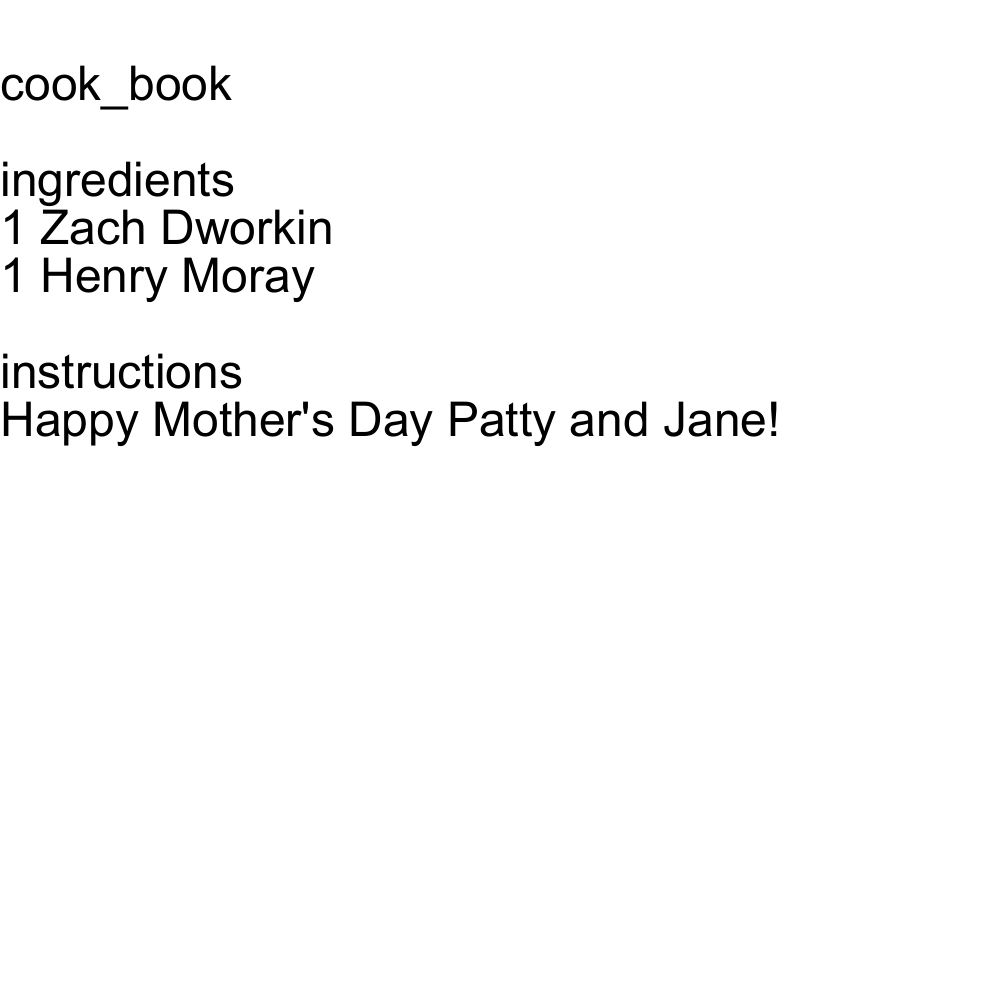
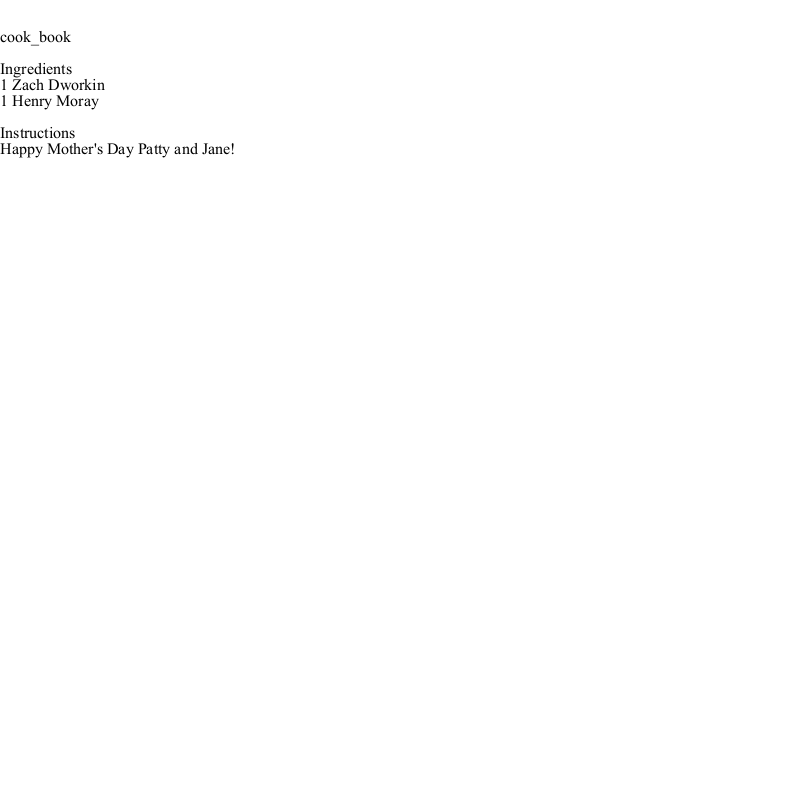
Add one new recipe Fix initialization bug Reformat png writer

Changed region(s): [[0.0, 0.0312, 0.3438, 0.3125], [0.0, 0.3438, 0.7812, 0.4375]]

diff --git a/src/ImageComponent.java b/src/ImageComponent.java
@@ -4,6 +4,7 @@ import java.awt.*;
 import java.awt.image.BufferedImage;
 import java.io.*;
 import java.nio.file.Path;
+import java.util.ArrayList;
 
 class ImageComponent extends JComponent {
     private Image image;
@@ -17,7 +18,7 @@ class ImageComponent extends JComponent {
     public Image getImage() { return this.image;}
 
     public void setImage(Image image) {
-        this.image = image;
+        this.image = scale(image, 800, 800);
     }
 
     public Path getResourcesDirectory() {
@@ -28,13 +29,54 @@ class ImageComponent extends JComponent {
         return ImageIO.read(resourcesDirectory.resolve(image).toFile());
     }
 
+    private ArrayList<String> lineParser(String line) {
+        ArrayList<String> lines = new ArrayList<>();
+        if (line.length() > 80) {
+            int line_count = 1;
+            int step_num = 1;
+            String[] ln = line.split(" ");
+            StringBuilder newLine = new StringBuilder();
+            String previous_word = "";
+
+            for (String word : ln) {
+                if (previous_word.equals("Step")) step_num = Integer.parseInt(word.substring(0, word.length() - 1));
+                if (word.equals("Step")) line_count = 1;
+
+                if (newLine.length() + word.length() < 80) {
+                    newLine.append(word).append(" ");
+                } else {
+                    lines.add(newLine.append("\n").toString());
+                    newLine = new StringBuilder();
+                    if (++line_count > 1) {
+                        newLine.append("            ");
+                        if (step_num >= 10) {
+                            newLine.append("  ");
+                        }
+
+                        newLine.append(word).append(" ");
+                    }
+                }
+
+                previous_word = word;
+            }
+
+            lines.add(newLine.append("\n").toString());
+        } else {
+            lines.add(line + "\n");
+        }
+
+        return lines;
+    }
+
     public void createImageFromText(Path imagePath) throws IOException {
-        int width = 1000;
-        int height = 1000;
+        int width = 800;
+        int height = 800;
+        int fontSize = 16;
+        int nextLinePosition = fontSize * 2 + 10;
 
         BufferedImage img = new BufferedImage(1, 1, BufferedImage.TYPE_INT_ARGB);
         Graphics2D g2d = img.createGraphics();
-        Font font = new Font("Arial", Font.PLAIN, 48);
+        Font font = new Font("Times New Roman", Font.PLAIN, fontSize);
         g2d.setFont(font);
         g2d.dispose();
 
@@ -52,21 +94,20 @@ class ImageComponent extends JComponent {
         g2d.setColor(Color.BLACK);
         File file = imagePath.toFile();
 
-        BufferedReader br;
-        int nextLinePosition=100;
-        int fontSize = 48;
-        br = new BufferedReader(new FileReader(file));
-
+        BufferedReader br = new BufferedReader(new FileReader(file));
         String line;
         while ((line = br.readLine()) != null) {
-            g2d.drawString(line, 0, nextLinePosition);
-            nextLinePosition = nextLinePosition + fontSize;
+            ArrayList<String> lines = lineParser(line);
+            for (String ln : lines) {
+                g2d.drawString(ln, 0, nextLinePosition);
+                nextLinePosition = nextLinePosition + fontSize;
+            }
         }
-        br.close();
 
+        br.close();
         g2d.dispose();
         String fileName = imagePath.toFile().getName();
-        String newFileName = fileName.substring(0, fileName.length() - 7) + ".png";
+        String newFileName = fileName.substring(0, fileName.length() - "recipe".length()) + "png";
         ImageIO.write(img, "png", resourcesDirectory.resolve("recipeCardImages").resolve(newFileName).toFile());
     }
 
@@ -74,5 +115,25 @@ class ImageComponent extends JComponent {
         if (image == null) return;
 
         g.drawImage(image, 0, 0, null);
+    }
+
+    public static Image scale(Image image, int width, int height){
+        double displayAngle = Math.atan2(height, width);
+        if (displayAngle < 0) {
+            displayAngle += (2 * Math.PI);
+        }
+        double imageAngle = Math.atan2(image.getHeight(null), image.getWidth(null));
+        if (imageAngle < 0) {
+            imageAngle += (2 * Math.PI);
+        }
+        Image scaleImage;
+
+        if (displayAngle >= imageAngle) {
+            //Giving -1 keeps the Image's original aspect ratio.
+            scaleImage = image.getScaledInstance(width, -1, Image.SCALE_DEFAULT);
+        } else {
+            scaleImage = image.getScaledInstance(-1, height, Image.SCALE_DEFAULT);
+        }
+        return scaleImage;
     }
 }

diff --git a/src/GUI.java b/src/GUI.java
@@ -171,15 +171,23 @@ public class GUI extends JFrame {
             }
 
             for(Recipe recipe : recipes) {
-                String name = recipe.getName() + ".png";
+                String png = recipe.getName() + ".png";
+                String rcp = recipe.getName() + ".recipe";
                 try {
-                    recipe.setImage(ImageIO.read(imageComponent.getResourcesDirectory().resolve(name).toFile()));
+                    recipe.setImage(ImageIO.read(imageComponent.getResourcesDirectory().resolve(png).toFile()));
                 } catch (IOException ioe) {
-                    JOptionPane.showMessageDialog(null, "Recipe Image " + name + " Not Found.");
+                    JOptionPane.showMessageDialog(null, "Recipe Image " + png + " Not Found.");
                 }
 
+                if (!imageComponent.getResourcesDirectory().resolve("recipeCardImages").resolve(png).getFileName().toFile().isFile()) {
+                    try {
+                        imageComponent.createImageFromText(imageComponent.getResourcesDirectory().resolve("recipes").resolve(rcp));
+                    } catch (IOException ioe) {
+                        JOptionPane.showMessageDialog(null, "Could not generate recipe instructions image for " + rcp + ".");
+                    }
+                }
                 try {
-                    recipe.setTextImage(ImageIO.read(imageComponent.getResourcesDirectory().resolve("recipeCardImages").resolve(name + ".png").toFile()));
+                    recipe.setTextImage(ImageIO.read(imageComponent.getResourcesDirectory().resolve("recipeCardImages").resolve(png).toFile()));
                 } catch (IOException ioe) {
                     JOptionPane.showMessageDialog(null, "Recipe Image Card Not Found.");
                 }

diff --git a/src/RecipePane.java b/src/RecipePane.java
@@ -218,7 +218,7 @@ public class RecipePane extends JPanel {
                 return;
             }
 
-            image.setIcon(new ImageIcon(recipe.getImage()));
+            image.setIcon(new ImageIcon(ImageComponent.scale(recipe.getImage(), 400, 400)));
             image.setVisible(true);
         }
     }
@@ -273,7 +273,7 @@ public class RecipePane extends JPanel {
     private class InputIngredient extends AbstractAction {
         final Component parent;
         private final Object[] measureTypes = new Object[]{"Pound(s)", "Ounce(s)", "Teaspoon(s)", "Tablespoon(s)",
-                "Breast(s)", "Fillet(s)", "Chop(s)", "Bag(s)", "Cup(s)"};
+                "Breast(s)", "Fillet(s)", "Chop(s)", "Bag(s)", "Cup(s)", "Unit(s)"};
 
         public InputIngredient(Component parent) {
             this.parent = parent;

diff --git a/src/Recipe.java b/src/Recipe.java
@@ -78,14 +78,16 @@ public class Recipe {
         if (recipeFile.createNewFile()) {
             FileWriter writer = new FileWriter(recipeFile);
             writer.write(name + "\n");
-            writer.write("\ningredients\n");
+            writer.write("\nIngredients\n");
             for (Ingredient ingredient : ingredients) {
                 writer.write(ingredient.toString() + "\n");
             }
 
-            writer.write("\ninstructions\n");
+            writer.write("\nInstructions\n");
+            int i = 1;
             for (String instruction : instructions) {
-                writer.write(instruction + "\n");
+                writer.write("Step " + i + ": " + instruction + "\n");
+                i++;
             }
 
             writer.close();
